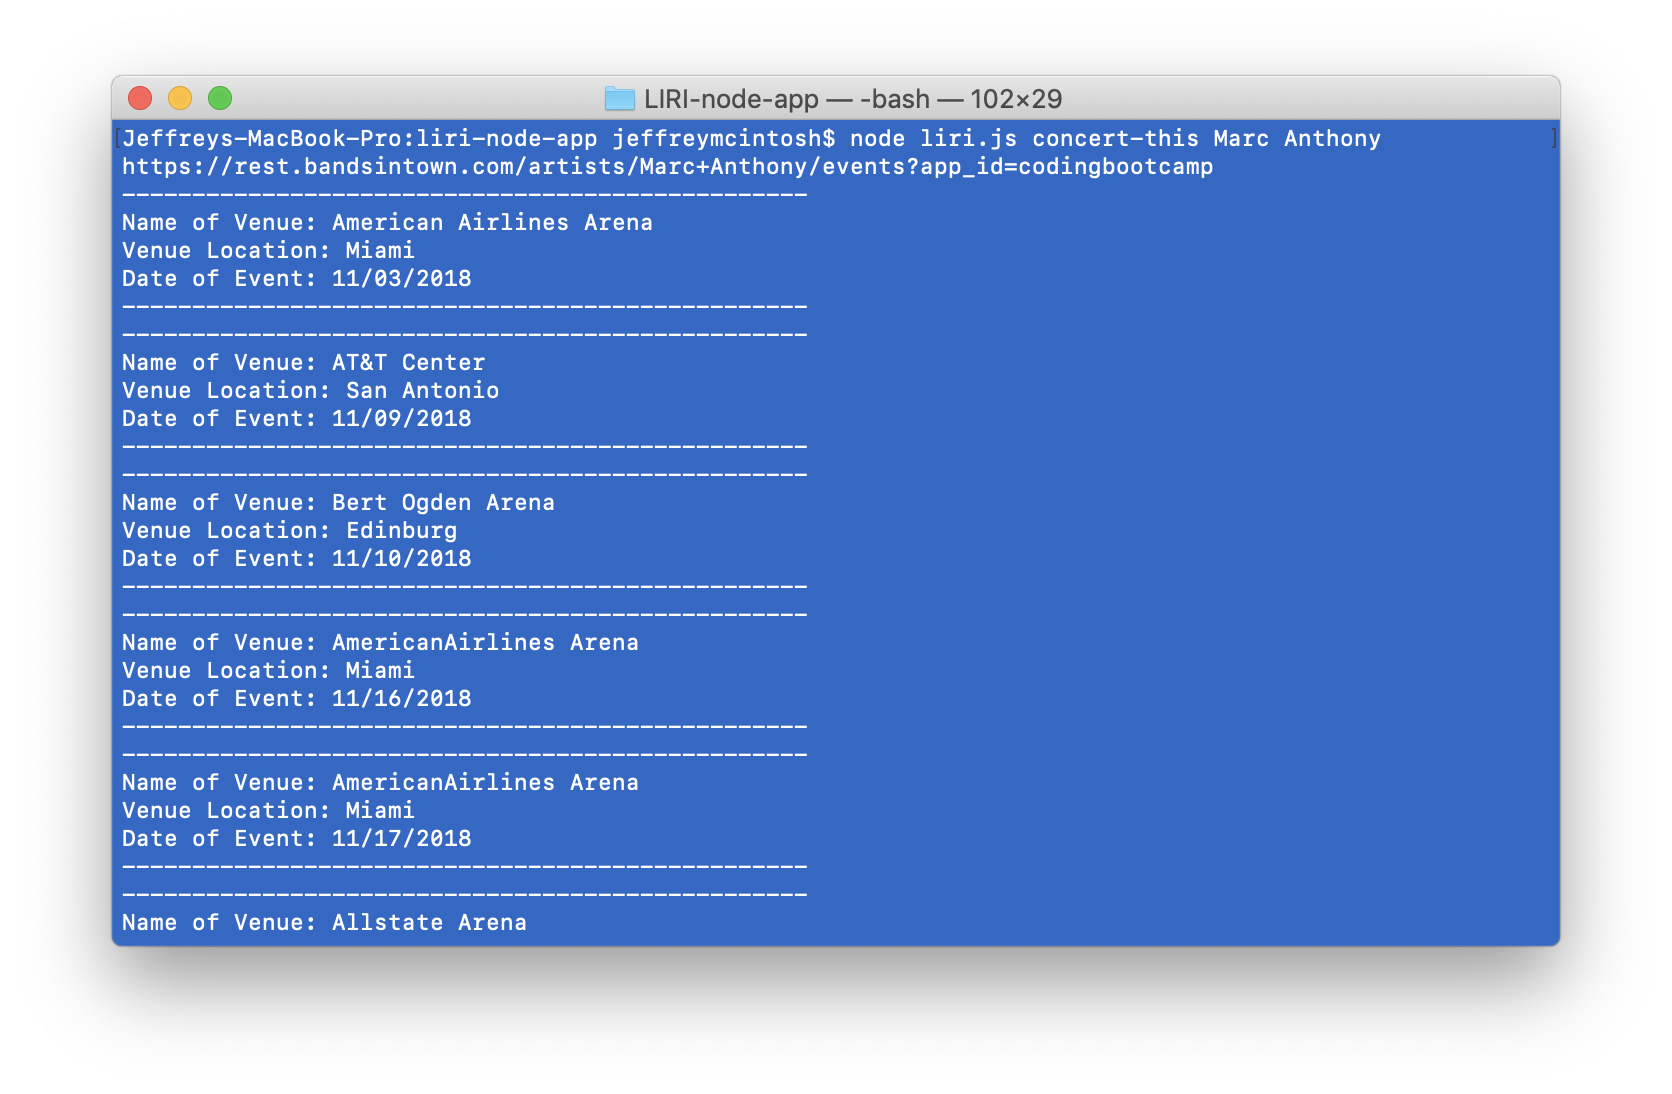
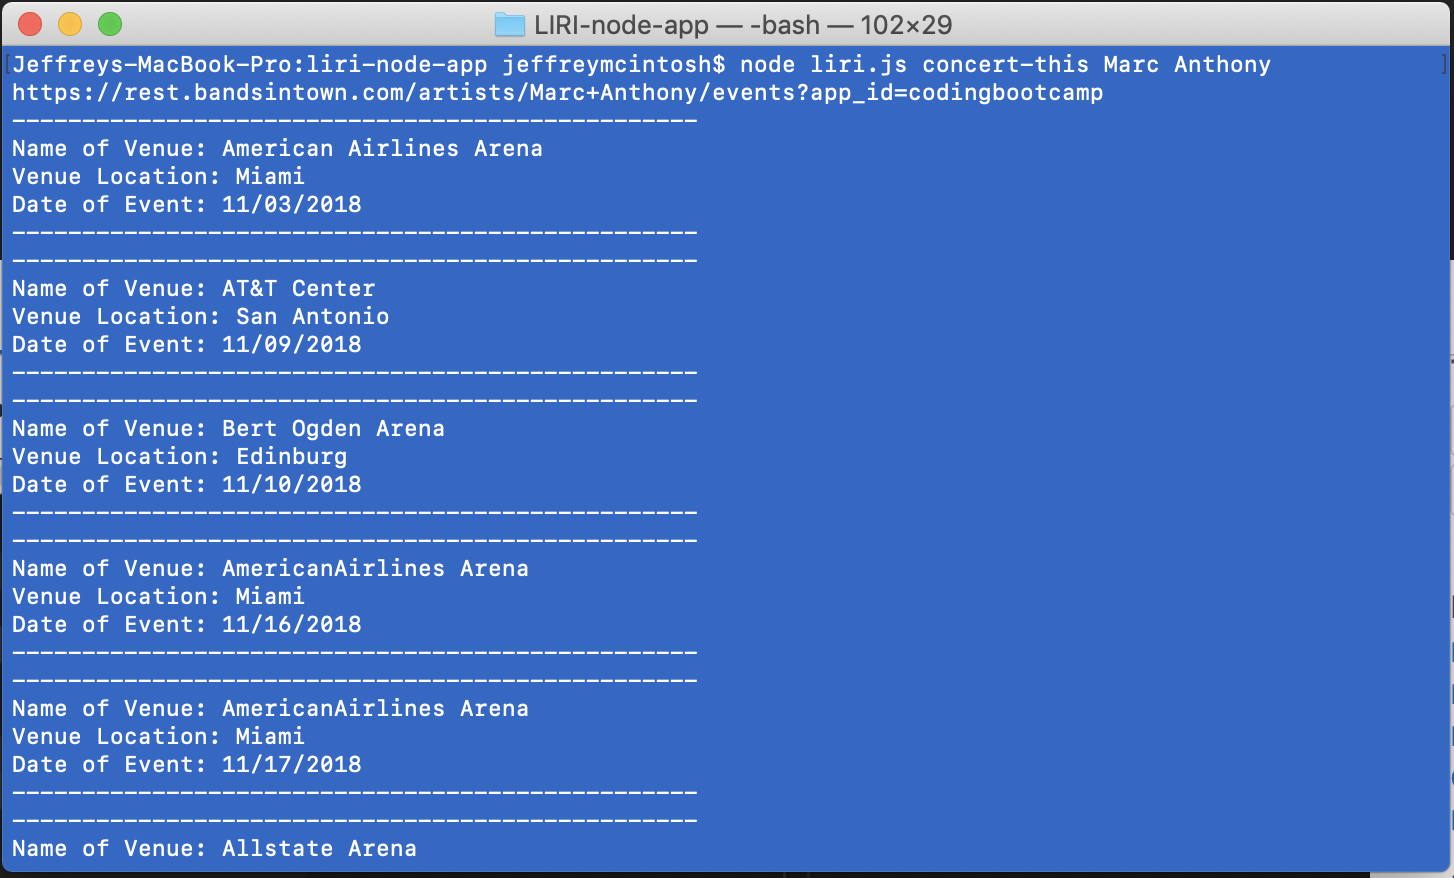
updated readme file so images would show

diff --git a/README.md b/README.md
@@ -6,17 +6,17 @@ LIRI is like iPhone's SIRI. However, while SIRI is a Speech Interpretation and R
 ## LIRI Commands
 
 ### node liri.js concert-this
-![alt text] (images/concert-this.png)
-
+![concert-this](images/concert-this.png)
 
 ###node liri.js spotify-this-song
-![alt text] (images/spotify-this-song.png)
+
+![spotify-this-song](images/spotify-this-song.png)
 
 
 ###node liri.js movie-this
-![alt text] (images/movie-this.png)
+![movie-this](images/movie-this.png)
 
 
 ###node liri.js do-what-it-says
-![alt text] (images/do-what-it-says.png)
+![do-what-it-says](images/do-what-it-says.png)
 
